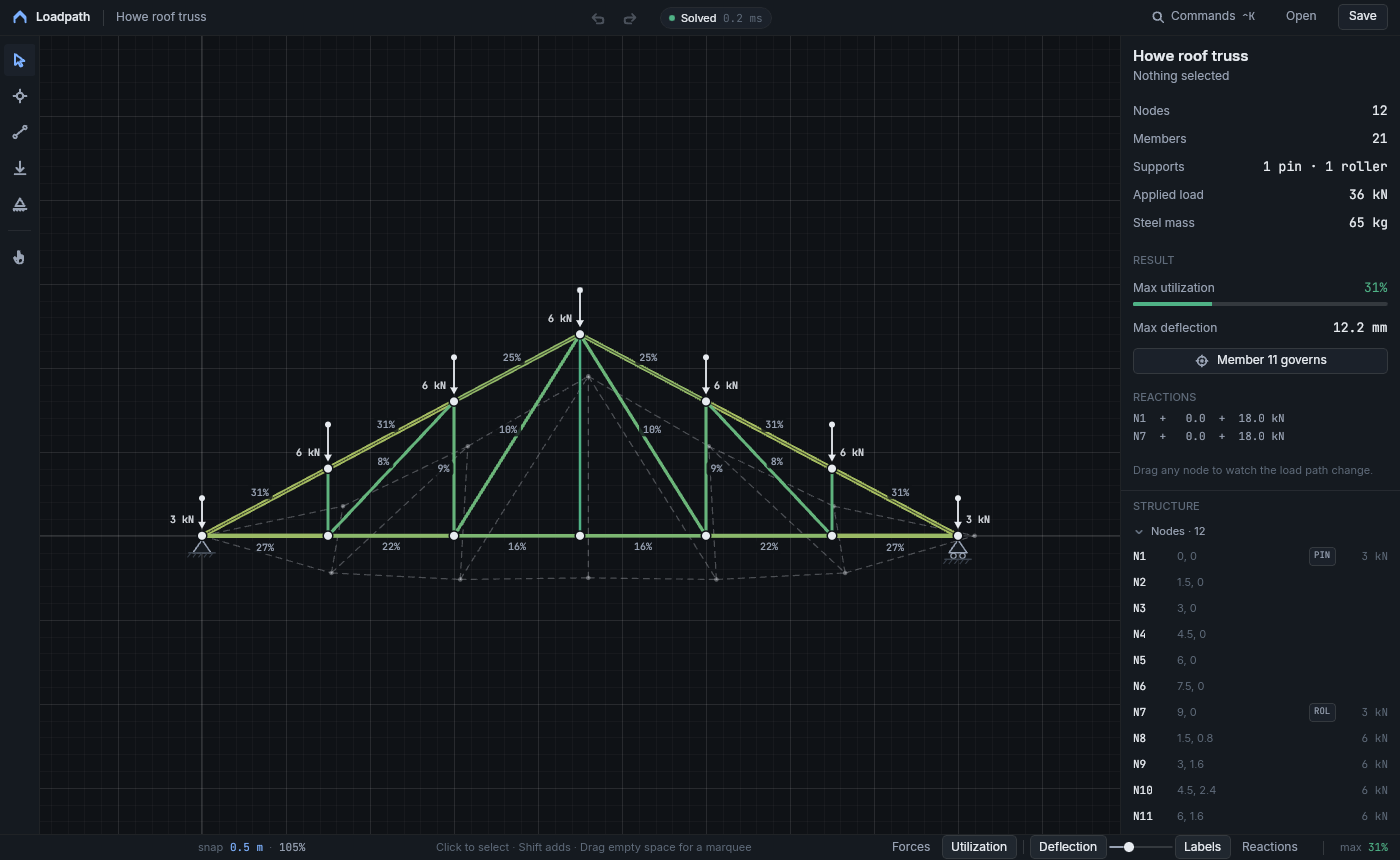
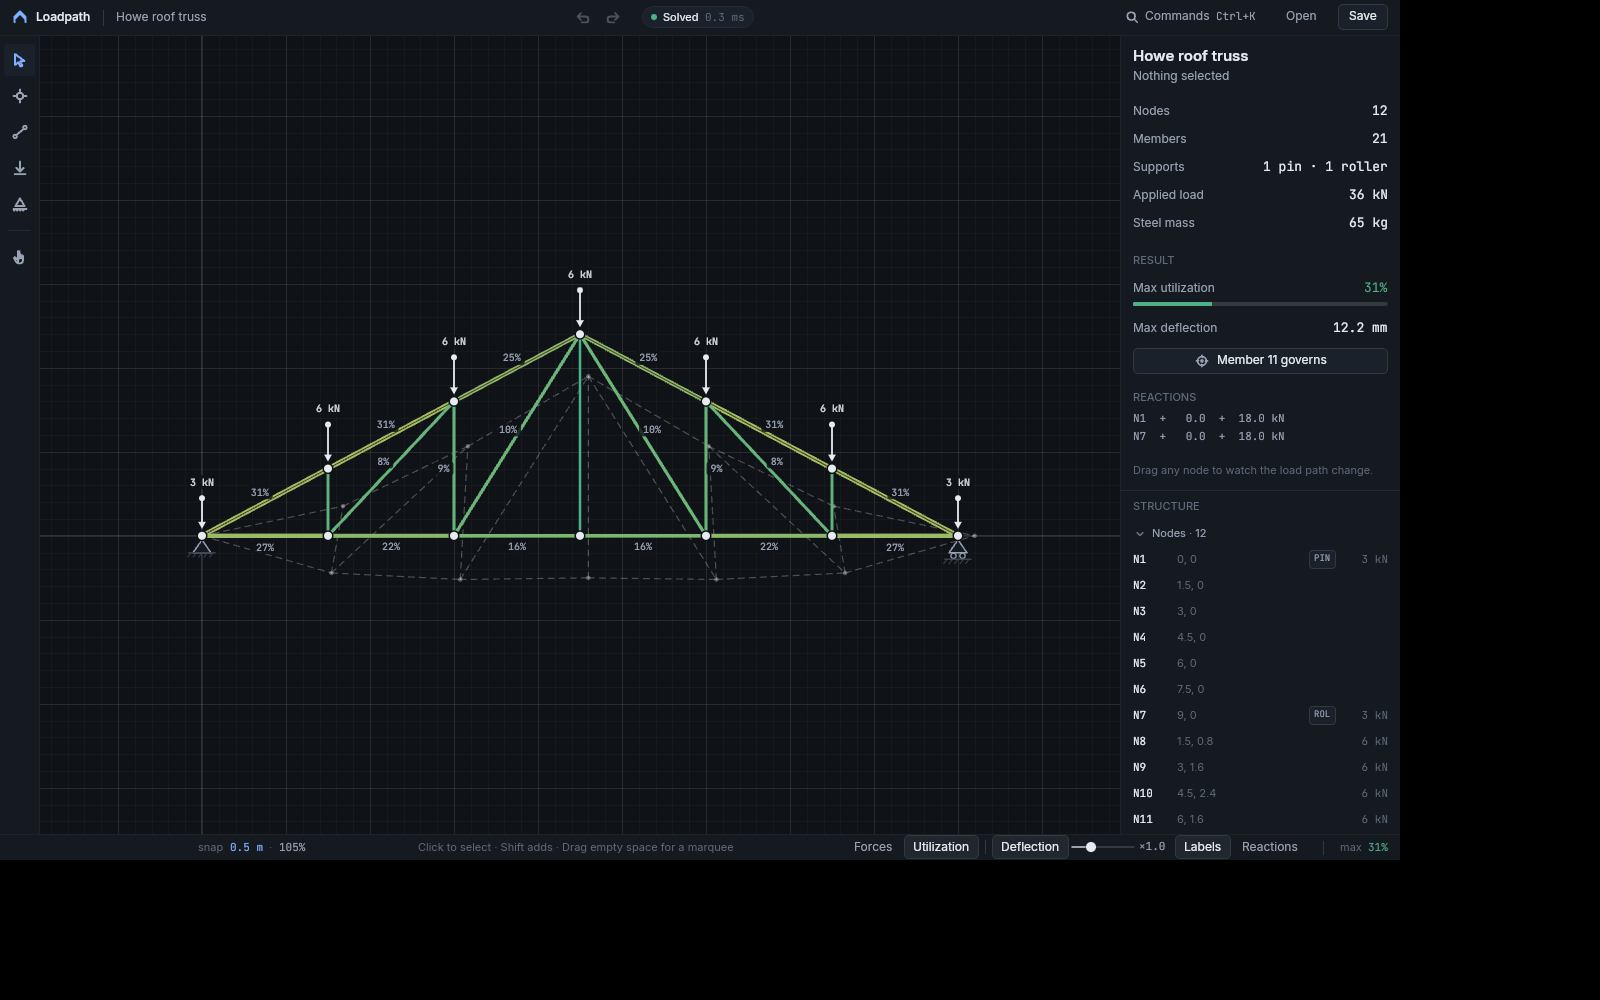
fix(loadpath): UI craft pass on canvas labels, control heights and status bar
Load and reaction labels pick the first of four spots around the arrow tail
that misses the member labels already drawn this frame, with the same backing
pill as member labels; before, they crossed diagonals or diagonal force labels
depending on zoom. Control heights go from five values to three (icon buttons,
palette rows, section combo and outline headers all 26 px). The Commands
button shows Ctrl+K instead of the macOS glyph. The deflection slider has a
×n.n readout. Below 960 px the status bar hides the cursor readout so the
display toggles and max utilization are never clipped. README screenshots
regenerated.

Claude-Session: https://claude.ai/code/session_01R4LfDdvnfWaRkRhFJQmQpw

diff --git a/Loadpath/Loadpath/Views/StatusBar.xaml b/Loadpath/Loadpath/Views/StatusBar.xaml
@@ -6,7 +6,7 @@
   <Border Background="{StaticResource SurfaceBrush}" BorderBrush="{StaticResource HairlineBrush}" BorderThickness="0,1,0,0" Padding="12,0">
     <Grid ColumnSpacing="16">
       <Grid.ColumnDefinitions>
-        <ColumnDefinition Width="170" />
+        <ColumnDefinition x:Name="CursorColumn" Width="170" />
         <ColumnDefinition Width="Auto" />
         <ColumnDefinition Width="*" />
         <ColumnDefinition Width="Auto" />
@@ -14,9 +14,9 @@
         <ColumnDefinition Width="Auto" />
       </Grid.ColumnDefinitions>
 
-      <TextBlock Text="{Binding CursorText}" Style="{StaticResource MonoCaption}" VerticalAlignment="Center" />
+      <TextBlock x:Name="Cursor" Text="{Binding CursorText}" Style="{StaticResource MonoCaption}" VerticalAlignment="Center" />
 
-      <StackPanel Grid.Column="1" Orientation="Horizontal" Spacing="6" VerticalAlignment="Center">
+      <StackPanel x:Name="SnapZoom" Grid.Column="1" Orientation="Horizontal" Spacing="6" VerticalAlignment="Center">
         <TextBlock Text="snap" Style="{StaticResource CaptionText}" VerticalAlignment="Center" />
         <TextBlock Text="{Binding SnapText}" Style="{StaticResource MonoCaption}" Foreground="{StaticResource AccentBrush}" VerticalAlignment="Center"
                    Opacity="{Binding SnapEnabled, Converter={StaticResource Dim}, ConverterParameter=invert}" />
@@ -33,6 +33,8 @@
         <ToggleButton Style="{StaticResource SegmentToggle}" Content="Deflection" IsChecked="{Binding ShowDeflection, Mode=TwoWay, Converter={StaticResource Checked}}" ToolTipService.ToolTip="Show deflected shape   3" />
         <Slider Style="{StaticResource CompactSlider}" Width="64" Minimum="0.2" Maximum="3" StepFrequency="0.1" Value="{Binding Exaggeration, Mode=TwoWay}"
                 Visibility="{Binding ShowDeflection, Converter={StaticResource Vis}}" ToolTipService.ToolTip="Deflection exaggeration" VerticalAlignment="Center" />
+        <TextBlock Text="{Binding ExaggerationText}" Style="{StaticResource MonoCaption}" MinWidth="30" Margin="2,0,4,0" VerticalAlignment="Center"
+                   Visibility="{Binding ShowDeflection, Converter={StaticResource Vis}}" />
         <ToggleButton Style="{StaticResource SegmentToggle}" Content="Labels" IsChecked="{Binding ShowLabels, Mode=TwoWay, Converter={StaticResource Checked}}" ToolTipService.ToolTip="Show force labels   4" />
         <ToggleButton Style="{StaticResource SegmentToggle}" Content="Reactions" IsChecked="{Binding ShowReactions, Mode=TwoWay, Converter={StaticResource Checked}}" ToolTipService.ToolTip="Show support reactions   5" />
       </StackPanel>

diff --git a/Loadpath/Loadpath/Views/OutlinePanel.xaml b/Loadpath/Loadpath/Views/OutlinePanel.xaml
@@ -35,7 +35,7 @@
     <ScrollViewer Grid.Row="1" VerticalScrollBarVisibility="Auto" HorizontalScrollMode="Disabled">
       <StackPanel Padding="0,0,0,12">
         <TextBlock Text="No elements yet" Style="{StaticResource CaptionText}" Margin="12,4" Visibility="{Binding OutlineIsEmpty, Converter={StaticResource Vis}}" />
-        <Button Style="{StaticResource QuietButton}" Command="{Binding ToggleNodes}" HorizontalAlignment="Stretch" HorizontalContentAlignment="Left" Padding="12,0" Height="24"
+        <Button Style="{StaticResource QuietButton}" Command="{Binding ToggleNodes}" HorizontalAlignment="Stretch" HorizontalContentAlignment="Left" Padding="12,0" Height="26"
                 Visibility="{Binding OutlineIsEmpty, Converter={StaticResource Vis}, ConverterParameter=invert}">
           <StackPanel Orientation="Horizontal" Spacing="6">
             <c:Icon Kind="chevron-down" Width="12" Height="12" Foreground="{StaticResource InkTertiaryBrush}" Visibility="{Binding NodesExpanded, Converter={StaticResource Vis}}" />
@@ -44,7 +44,7 @@
           </StackPanel>
         </Button>
         <ItemsControl ItemsSource="{Binding OutlineNodes}" ItemTemplate="{StaticResource OutlineRow}" Visibility="{Binding NodesExpanded, Converter={StaticResource Vis}}" />
-        <Button Style="{StaticResource QuietButton}" Command="{Binding ToggleMembers}" HorizontalAlignment="Stretch" HorizontalContentAlignment="Left" Padding="12,0" Height="24"
+        <Button Style="{StaticResource QuietButton}" Command="{Binding ToggleMembers}" HorizontalAlignment="Stretch" HorizontalContentAlignment="Left" Padding="12,0" Height="26"
                 Visibility="{Binding OutlineIsEmpty, Converter={StaticResource Vis}, ConverterParameter=invert}">
           <StackPanel Orientation="Horizontal" Spacing="6">
             <c:Icon Kind="chevron-down" Width="12" Height="12" Foreground="{StaticResource InkTertiaryBrush}" Visibility="{Binding MembersExpanded, Converter={StaticResource Vis}}" />

diff --git a/Loadpath/Loadpath/Views/CommandPalette.xaml b/Loadpath/Loadpath/Views/CommandPalette.xaml
@@ -25,7 +25,7 @@
           <ItemsControl ItemsSource="{Binding PaletteItems}" Padding="4">
             <ItemsControl.ItemTemplate>
               <DataTemplate>
-                <Border Height="28" Padding="8,0" CornerRadius="4" Background="{Binding RowBrushKey, Converter={StaticResource Brush}}" Tag="{Binding Id}" PointerPressed="OnItemPressed" PointerEntered="OnItemEntered">
+                <Border Height="26" Padding="8,0" CornerRadius="4" Background="{Binding RowBrushKey, Converter={StaticResource Brush}}" Tag="{Binding Id}" PointerPressed="OnItemPressed" PointerEntered="OnItemEntered">
                   <Grid ColumnSpacing="10">
                     <Grid.ColumnDefinitions>
                       <ColumnDefinition Width="16" />

diff --git a/Loadpath/Loadpath/Views/InspectorPanel.xaml b/Loadpath/Loadpath/Views/InspectorPanel.xaml
@@ -126,7 +126,7 @@
 
       <TextBlock Text="SECTION" Style="{StaticResource SectionLabel}" Margin="0,16,0,6" />
       <ComboBox ItemsSource="{Binding Sections}" SelectedIndex="{Binding SectionIndex, Mode=TwoWay}"
-                HorizontalAlignment="Stretch" MinHeight="26" Height="28" FontFamily="{StaticResource UiFont}" FontSize="12" AutomationProperties.Name="Section">
+                HorizontalAlignment="Stretch" MinHeight="26" Height="26" FontFamily="{StaticResource UiFont}" FontSize="12" AutomationProperties.Name="Section">
         <ComboBox.ItemTemplate>
           <DataTemplate>
             <TextBlock Text="{Binding Name}" FontFamily="{StaticResource UiFont}" FontSize="12" />

diff --git a/Loadpath/Loadpath/Views/TitleStrip.xaml b/Loadpath/Loadpath/Views/TitleStrip.xaml
@@ -48,7 +48,7 @@
         <StackPanel Orientation="Horizontal" Spacing="6">
           <c:Icon Kind="search" Width="14" Height="14" />
           <TextBlock Text="Commands" Style="{StaticResource SecondaryText}" VerticalAlignment="Center" />
-          <TextBlock Text="⌃K" Style="{StaticResource MonoCaption}" VerticalAlignment="Center" />
+          <TextBlock Text="Ctrl+K" Style="{StaticResource MonoCaption}" VerticalAlignment="Center" />
         </StackPanel>
       </Button>
       <Button Grid.Column="5" Style="{StaticResource QuietButton}" Command="{Binding OpenFile}" ToolTipService.ToolTip="Open   Ctrl+O" AutomationProperties.Name="Open">

diff --git a/Loadpath/Loadpath/Themes/Controls.xaml b/Loadpath/Loadpath/Themes/Controls.xaml
@@ -147,9 +147,9 @@
   </Style>
 
   <Style x:Key="IconButton" TargetType="Button" BasedOn="{StaticResource QuietButton}">
-    <Setter Property="Width" Value="28" />
-    <Setter Property="Height" Value="28" />
-    <Setter Property="MinHeight" Value="28" />
+    <Setter Property="Width" Value="26" />
+    <Setter Property="Height" Value="26" />
+    <Setter Property="MinHeight" Value="26" />
     <Setter Property="Padding" Value="0" />
     <Setter Property="Foreground" Value="{StaticResource InkSecondaryBrush}" />
   </Style>

diff --git a/Loadpath/Loadpath/Workspace/WorkspaceRenderer.cs b/Loadpath/Loadpath/Workspace/WorkspaceRenderer.cs
@@ -20,6 +20,8 @@ public sealed class WorkspaceRenderer : IDisposable
     private readonly SKPathEffect _dash = SKPathEffect.CreateDash([4, 4], 0);
     private readonly SKPathEffect _ghostDash = SKPathEffect.CreateDash([6, 5], 0);
     private readonly SKPath _path = new();
+    /// <summary>Label boxes drawn this frame; load and reaction labels steer around them.</summary>
+    private readonly List<SKRect> _labelRects = new(64);
 
     public WorkspaceRenderer()
     {
@@ -45,6 +47,7 @@ public sealed class WorkspaceRenderer : IDisposable
     public void Render(SKCanvas canvas, RenderSnapshot s)
     {
         canvas.Clear(SkiaPalette.Canvas);
+        _labelRects.Clear();
         if (s.ShowGrid) DrawGrid(canvas, s);
         if (s.ShowDeflection && s.Status == AnalysisStatus.Solved) DrawDeflectedGhost(canvas, s);
         DrawMembers(canvas, s);
@@ -170,6 +173,7 @@ public sealed class WorkspaceRenderer : IDisposable
             var width = _monoSmall.MeasureText(text);
             var cx = mid.X + nx * off; var cy = mid.Y + ny * off;
             var rect = new SKRect(cx - width / 2 - 4, cy - 7, cx + width / 2 + 4, cy + 7);
+            _labelRects.Add(rect);
             _fill.Color = SkiaPalette.Canvas.WithAlpha(0.82);
             canvas.DrawRoundRect(rect, 3, 3, _fill);
             _text.Color = m.Dimmed ? SkiaPalette.InkTertiary : (m.Selected ? SkiaPalette.Ink : SkiaPalette.InkSecondary);
@@ -301,16 +305,42 @@ public sealed class WorkspaceRenderer : IDisposable
         var len = MathF.Sqrt(d.X * d.X + d.Y * d.Y);
         if (len < 1) return;
         var ux = d.X / len; var uy = d.Y / len;
+        var px = -uy; var py = ux; // perpendicular, flipped to point away from the structure
+        if (px * (center.X - tail.X) + py * (center.Y - tail.Y) > 0) { px = -px; py = -py; }
         var width = _monoSmall.MeasureText(text);
-        // Beside the shaft near the head, on the side away from the structure: clear of member labels at the midpoints.
-        var px = -uy; var py = ux;
-        if (px * (center.X - head.X) + py * (center.Y - head.Y) > 0) { px = -px; py = -py; }
-        var cx = head.X - ux * 16 + px * 8;
-        var cy = head.Y - uy * 16 + py * 8;
-        var lx = px > 0.3f ? cx : px < -0.3f ? cx - width : cx - width / 2;
-        var ly = cy + 3.5f;
+        // Candidates in order of preference: beyond the tail on the shaft axis (the widest part of the panel, or
+        // outside the structure), further out, then beside the tail on the outer side, then the inner side.
+        // The arrow has a fixed pixel length, so which spot is clear depends on zoom; take the first that
+        // misses every label drawn so far this frame.
+        Span<SKPoint> anchors = stackalloc SKPoint[4];
+        anchors[0] = new SKPoint(tail.X - ux * 9, tail.Y - uy * 9);
+        anchors[1] = new SKPoint(tail.X - ux * 23, tail.Y - uy * 23);
+        anchors[2] = new SKPoint(tail.X + px * 8, tail.Y + py * 8);
+        anchors[3] = new SKPoint(tail.X - px * 8, tail.Y - py * 8);
+        var chosen = Box(anchors[0], ux, uy, width);
+        for (var i = 0; i < anchors.Length; i++)
+        {
+            var dirX = i < 2 ? -ux : (i == 2 ? px : -px);
+            var dirY = i < 2 ? -uy : (i == 2 ? py : -py);
+            var box = Box(anchors[i], dirX, dirY, width);
+            var clear = true;
+            foreach (var r in _labelRects) if (r.IntersectsWith(box)) { clear = false; break; }
+            if (clear) { chosen = box; break; }
+        }
+        _labelRects.Add(chosen);
+        _fill.Color = SkiaPalette.Canvas.WithAlpha(0.82);
+        canvas.DrawRoundRect(chosen, 3, 3, _fill);
         _text.Color = color.WithAlpha(0.9);
-        canvas.DrawText(text, lx, ly, _monoSmall, _text);
+        canvas.DrawText(text, chosen.Left + 4, chosen.MidY + 3.5f, _monoSmall, _text);
+
+        // Text box grown from an anchor in direction (dx, dy): centered across the direction, flush along it.
+        static SKRect Box(SKPoint a, float dx, float dy, float width)
+        {
+            var w = width + 8; const float h = 14;
+            var left = dx > 0.3f ? a.X : dx < -0.3f ? a.X - w : a.X - w / 2;
+            var top = dy > 0.3f ? a.Y : dy < -0.3f ? a.Y - h : a.Y - h / 2;
+            return new SKRect(left, top, left + w, top + h);
+        }
     }
 
     // ---- nodes ----

diff --git a/Loadpath/Loadpath/Presentation/EditorModel.cs b/Loadpath/Loadpath/Presentation/EditorModel.cs
@@ -67,6 +67,7 @@ public partial record EditorModel
     public IState<bool> IsUtilization => State.Value(this, () => _engine.Options.DisplayMode == DisplayMode.Utilization);
     public IState<bool> ShowDeflection => State.Value(this, () => _engine.Options.ShowDeflection).ForEach(async (v, ct) => Push(o => o.ShowDeflection = v));
     public IState<double> Exaggeration => State.Value(this, () => _engine.Options.Exaggeration).ForEach(async (v, ct) => Push(o => o.Exaggeration = v));
+    public IFeed<string> ExaggerationText => Exaggeration.Select(v => $"×{v:0.0}");
     public IState<bool> ShowLabels => State.Value(this, () => _engine.Options.ShowLabels).ForEach(async (v, ct) => Push(o => o.ShowLabels = v));
     public IState<bool> ShowReactions => State.Value(this, () => _engine.Options.ShowReactions).ForEach(async (v, ct) => Push(o => o.ShowReactions = v));
     public IState<bool> SnapEnabled => State.Value(this, () => _engine.Options.SnapEnabled);

diff --git a/Loadpath/Loadpath/Views/StatusBar.xaml.cs b/Loadpath/Loadpath/Views/StatusBar.xaml.cs
@@ -1,8 +1,21 @@
+using Microsoft.UI.Xaml;
 using Microsoft.UI.Xaml.Controls;
 
 namespace Loadpath.Views;
 
 public sealed partial class StatusBar : UserControl
 {
-    public StatusBar() => InitializeComponent();
+    public StatusBar()
+    {
+        InitializeComponent();
+        SizeChanged += (_, e) => ApplyCompact(e.NewSize.Width);
+    }
+
+    /// <summary>Below 960 px the cursor readout gives way so the display toggles and the max utilization stay whole.</summary>
+    private void ApplyCompact(double width)
+    {
+        var compact = width < 960;
+        Cursor.Visibility = compact ? Visibility.Collapsed : Visibility.Visible;
+        CursorColumn.Width = compact ? new GridLength(0) : new GridLength(170);
+    }
 }

diff --git a/Loadpath/README.md b/Loadpath/README.md
@@ -77,6 +77,7 @@ Loadpath.Tests/     xunit: solver against method-of-joints values, mechanism det
 - 21 unit tests: a triangle truss matches method-of-joints forces and reactions to three decimals; a square without a diagonal is a mechanism; detached parts are left out; drags coalesce; delete/split/duplicate revert exactly; samples serialize round-trip and all solve below full utilization.
 - Runtime: the app was driven under Xvfb with `xdotool` (`tools/drive.sh`) through select, drag with live re-solve, undo, node and member chaining with guides, load vector drag, support cycling, marquee delete, load-handle drag, number-field editing, outline selection and collapse, bulk support and section actions, section drag-and-drop, the combo box, the palette (search, arrow keys, Enter), context menus, display modes, save to disk and autosave restore. The same pass was repeated after the MVUX conversion. Screenshots in `docs/` come from those runs.
 - Release build has zero warnings.
+- A UI craft pass (critique checklist, two widths, two heights, every display mode) brought control heights from five values to three (26 px chrome, 24 px status-bar segments, 32 px tool rail), moved arrow labels off the members, added the exaggeration readout, replaced the macOS `⌃K` glyph with `Ctrl+K`, and made the status bar drop the cursor readout below 960 px so the display toggles and max utilization stay whole.
 
 Fixture hooks (Debug only) make headless captures deterministic: `LOADPATH_SAMPLE=warren|cantilever|roof`, `LOADPATH_RESET=1` (ignore settings and autosave), `LOADPATH_SELECT=n4,m12`, `LOADPATH_MODE=utilization,deflection,reactions,nolabels`, `LOADPATH_TOOL=member`, `LOADPATH_PALETTE=1`, `LOADPATH_TOAST=text`, `LOADPATH_EDIT=unsupported|overload`, `LOADPATH_TRACE=path`.
 
@@ -86,6 +87,7 @@ Fixture hooks (Debug only) make headless captures deterministic: `LOADPATH_SAMPL
 - On Linux the file pickers go through the xdg-desktop-portal. Without a session bus the app saves to `~/Documents/Loadpath` and says so in a toast.
 - Mouse-wheel zoom uses `PointerWheelChanged`. Synthesized X11 button-4/5 clicks arrive as plain presses on this host, so wheel zoom was not exercised headlessly; `Ctrl+=`, `Ctrl+-`, `Ctrl+0`, `Ctrl+1` and `F` were.
 - `SKCanvasElement` ignores `UIElement.Opacity`; dimming is baked into the paints.
+- Load and reaction arrows have a fixed pixel length, so where their labels are clear depends on zoom. The renderer keeps the label boxes drawn each frame and gives an arrow label the first of four spots (beyond the tail, further beyond, beside the tail outward, beside it inward) that misses them.
 - MVUX generator notes: records carried by feeds are plain `partial record`s (no `required` members, no record structs), colors travel as resource keys resolved by a converter, and a `readonly record struct` with an `Id` property must not be `partial` or the key-equality generator emits a non-partial duplicate.
 - MVUX runs generated commands and `ForEach` callbacks on a thread-pool thread. Anything that mutates the document (and therefore raises events that reach XAML) is posted back to the UI dispatcher through `EditorModel.Ui(...)`; without it the first edit of a transaction lands and the rest throw "dependency property system should not be accessed from non UI thread".
 - When a focused element leaves the tree (a collapsing inspector panel, the closing palette) keyboard events lose their target; the page moves focus back to an invisible `KeySink` on selection changes and palette close.
